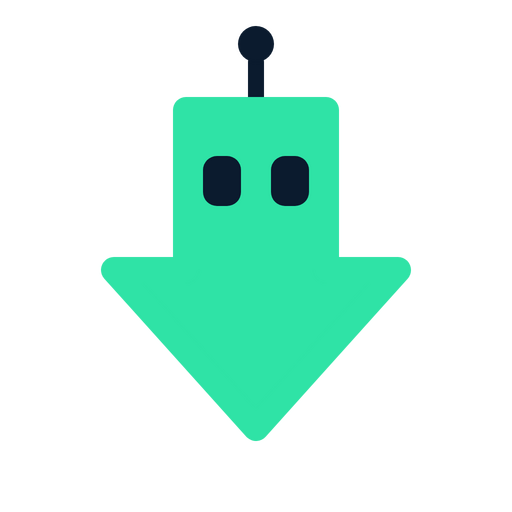
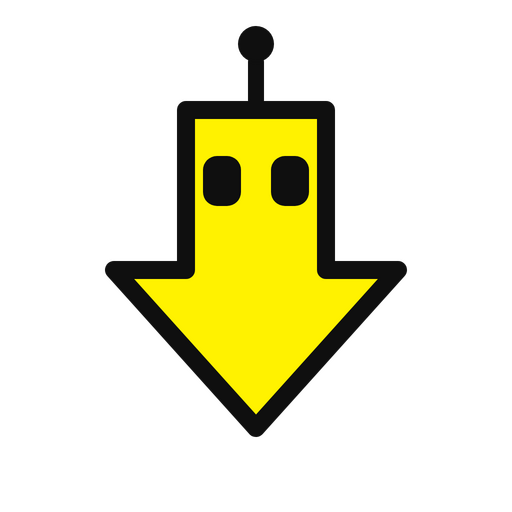
Recolor mark to yellow and black
Keeps the price-arrow silhouette; swaps the palette to #FFF200 / #0F0F0F per
owner preference. Adds an ink keyline so the mark holds an edge on white.
Corrects the README asset note, which previously stated colors were not used.

Claude-Session: https://claude.ai/code/session_01FchKjx3AV51YxwERrnhJoz

Changed region(s): [[0.1875, 0.0312, 0.8125, 0.875]]

diff --git a/plugins/best-bot/README.md b/plugins/best-bot/README.md
@@ -33,7 +33,8 @@ wordmark in a font stack (Inter, then system sans), so the wordmark's exact
 shape depends on what the viewer has installed — use `best-bot-logo.png` where
 the rendering must be fixed.
 
-The logo was drawn for this project. Best Buy's marks, logo, and colors are not
-used in it.
+The logo was drawn for this project and does not reproduce Best Buy's logo or
+any part of it. Best Buy's marks are not used in it.
 
-Palette: mint `#2FE3A6`, ink `#0B1B2E`.
+Palette: yellow `#FFF200`, ink `#0F0F0F`. The mark carries an ink keyline so it
+holds an edge against white backgrounds, where the yellow alone would wash out.

diff --git a/README.md b/README.md
@@ -99,8 +99,8 @@ or sponsored by Best Buy Co., Inc.** "Best Buy," "My Best Buy," and related
 marks belong to their owner and are referenced here only to describe what this
 tool works with.
 
-The Best Bot logo was drawn for this project. Best Buy's marks, logo, and
-colors are not used in it.
+The Best Bot logo was drawn for this project and does not reproduce Best Buy's
+logo or any part of it. Best Buy's marks are not used in it.
 
 Store policies change without notice. This plugin encodes Best Buy's published
 policy as of September 2026 and instructs Claude to trust a live policy page
